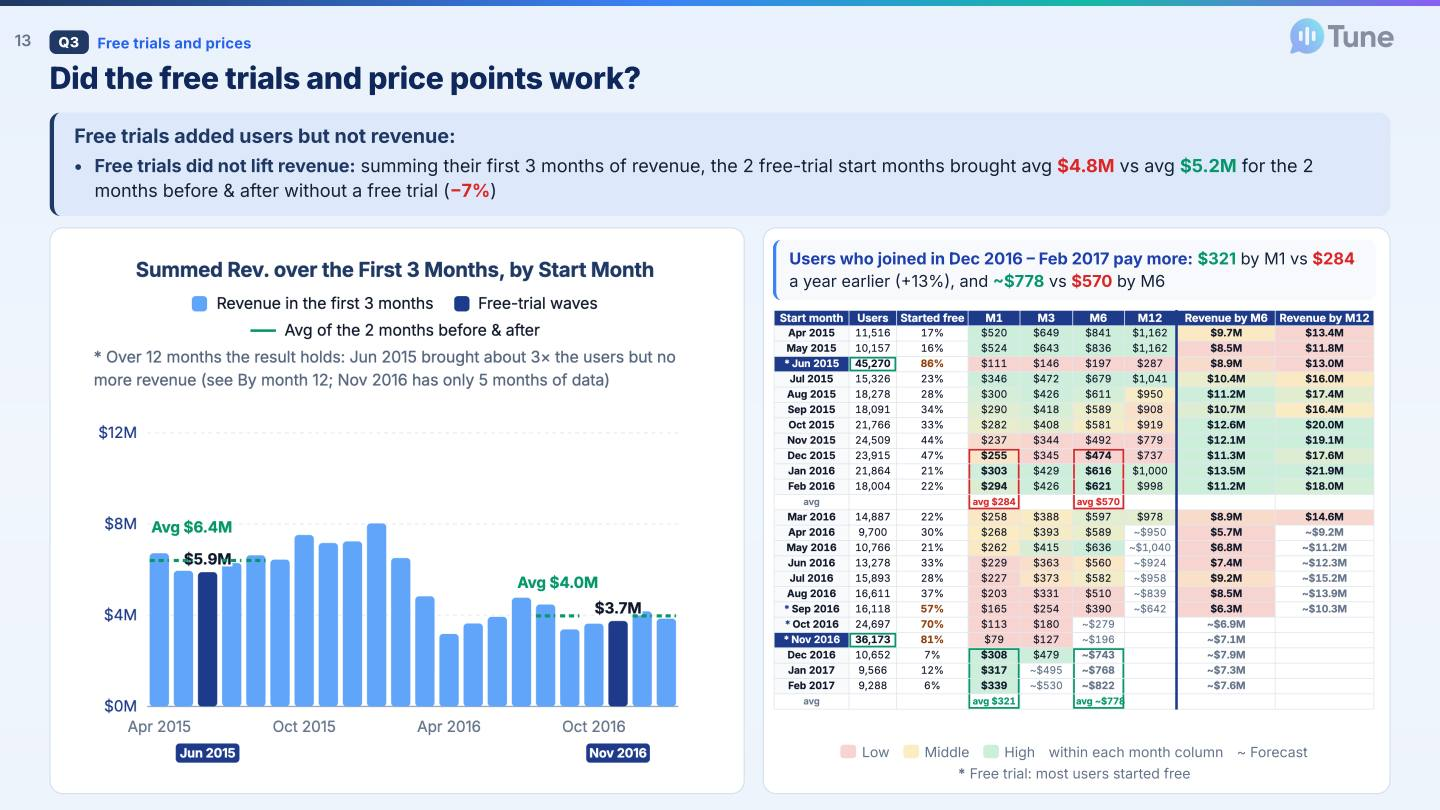
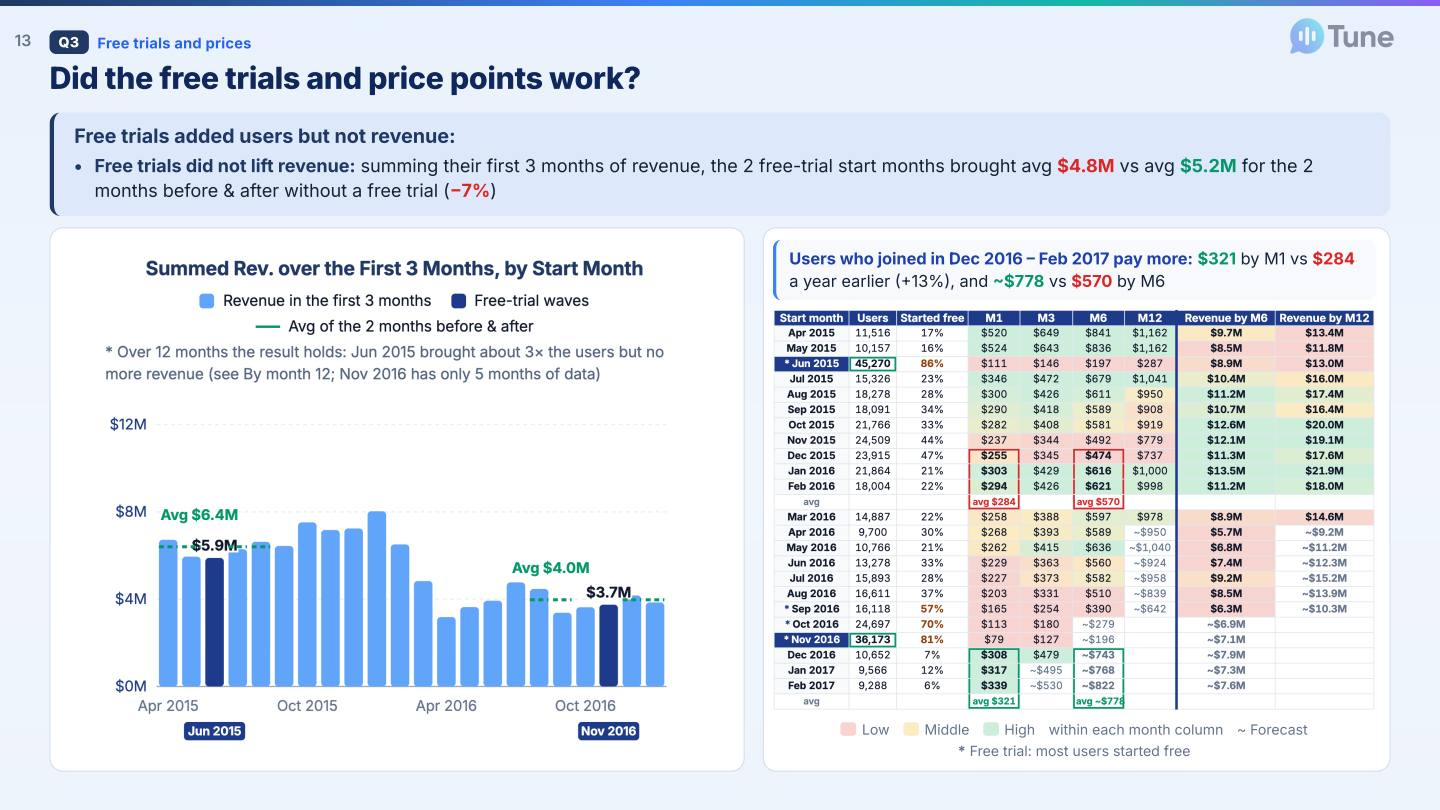
Deck slides 4 and 13: chart cards a little shorter so every slide keeps room at the bottom

diff --git a/index.html b/index.html
@@ -3697,7 +3697,7 @@ const ISSUES = { raw_users: "U1-U11: age 0 or out of range, gender missing, regi
   raw_churn_labels: "L4-L7: labels don't match a naive 'due in March' population" };
 
 // ---------------- tabs ----------------
-const DECKV = "1117e";  // change on every deck update so browsers load the new slide images, not a cached copy
+const DECKV = "1117f";  // change on every deck update so browsers load the new slide images, not a cached copy
 const GROUPS = {
   intro: [["overview", "Overview"]],
   p1: [["dq", "1a · Data quality"], ["lineage", "1b.1 · Clean layer & data model"], ["explorer", "1b.2 · Explorer & SQL"], ["churn", "1c · Churn check"]],
